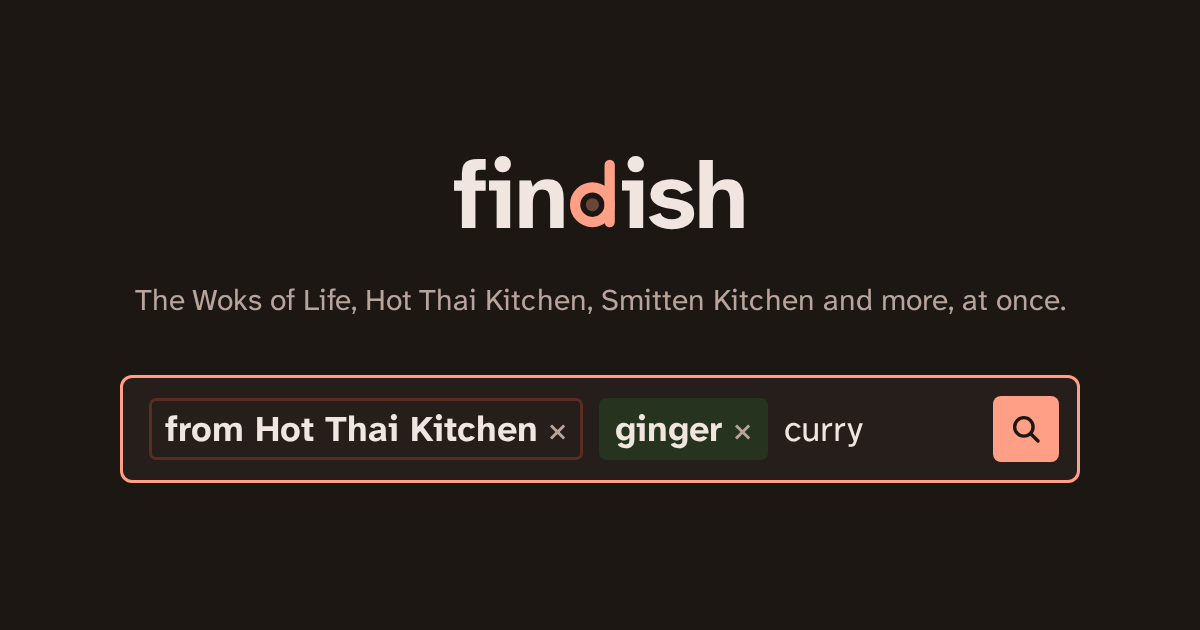
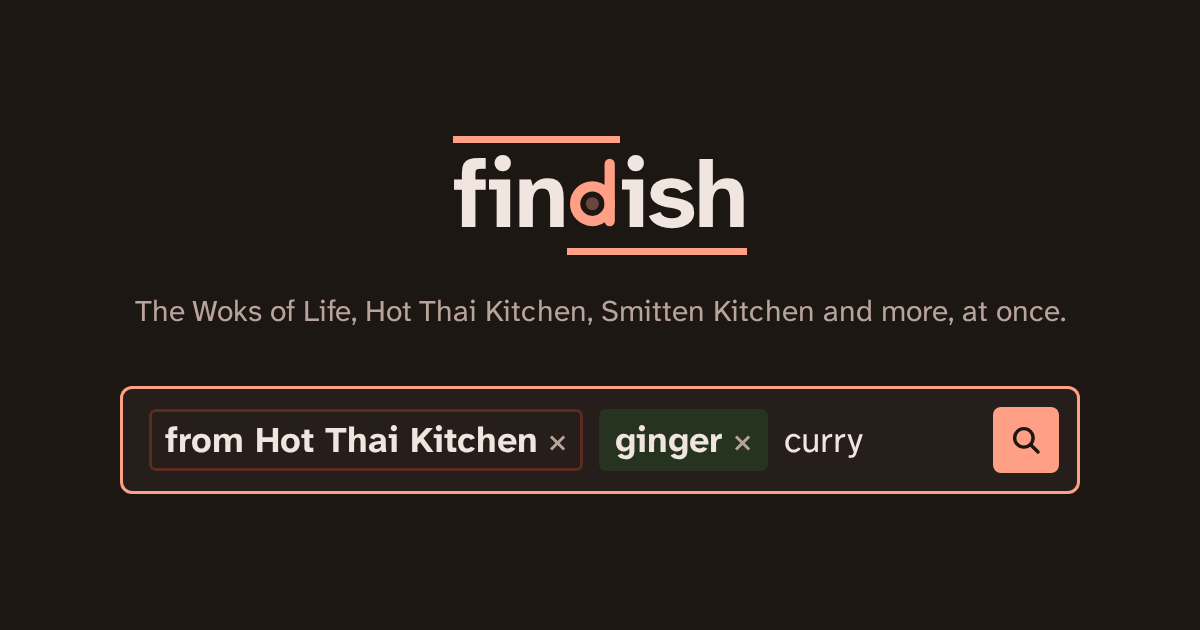
The wordmark marks the two words: a line over "find" and one under "dish"
Both lines run across the plate d, so "find" and "dish" each read with the d
shared between them. Keeps the heavier, evenly spaced d. The share card follows.

Claude-Session: https://claude.ai/code/session_015KDcQG7Phcc9ZQiyKCp2Nv

diff --git a/design/og.html b/design/og.html
@@ -8,7 +8,10 @@ html,body{margin:0}
 body{width:1200px;height:630px;background:#1d1714;color:#f1e6df;font-family:A;overflow:hidden;box-sizing:border-box;padding:64px 96px;display:flex;flex-direction:column;align-items:center;justify-content:center;text-align:center}
 .name{font-size:96px;font-weight:700;letter-spacing:-0.03em;line-height:1;margin:0}
 .name{display:inline-flex;align-items:stretch;letter-spacing:-0.02em}
-.d{display:flex;align-items:flex-end;padding:0 0.02em}
+.fin,.d,.ish{border-top:0.08em solid transparent;border-bottom:0.08em solid transparent;padding-top:0.04em;padding-bottom:0.06em}
+.fin,.d{border-top-color:#ff9f86}
+.d,.ish{border-bottom-color:#ff9f86}
+.d{display:flex;align-items:flex-end;padding-left:0.02em;padding-right:0.02em}
 .d svg{display:block;width:0.507em;height:0.74em;margin-bottom:0.15em;color:#ff9f86}
 .from{font-size:30px;color:#b8a49b;margin:36px 0 0}
 .box{margin-top:56px;width:960px;box-sizing:border-box;display:flex;align-items:center;gap:16px;padding:18px 18px 18px 26px;border:3px solid #ff9f86;border-radius:12px;background:#251e1a;font-size:36px;text-align:left}

diff --git a/AGENTS.md b/AGENTS.md
@@ -253,7 +253,7 @@ Findish (findish.now; called Recipe search until 2026-11-16, when it moved off k
 - Analytics go to Findish's own Amplitude project, "Findish" (910064), since 2026-11-16, only on findish.now. The key is in `src/lib/site.ts`; `scripts/popularity.mjs` reads the same project with the Actions secrets `AMPLITUDE_API_KEY` and `AMPLITUDE_SECRET_KEY`. Custom events no longer carry `experiment` (that's only for projects sharing kylepace.dev's). Events from before the move stay in the kylepace.dev project (902556) under `experiment: "recipe-search"`.
 - The crawler is FindishBot (renamed from RecipeSearchBot on 2026-11-16, Kyle's call; no indexed site's robots.txt named the old one). Its user agent links to findish.now/about/. `robotsForNames` in `crawler/lib/robots.mjs` applies the rules for every name it has gone by (`OLD_NAMES` in `crawler/crawl.mjs`): a path must be allowed for all of them and the longest Crawl-delay wins, so a block on the old name still holds. Keep old names in that list. Its look is its own: `src/styles/theme.css` overrides the tokens with "Tomato and basil" (Kyle's pick, 2026-11-16).
 - Photos load straight from each recipe's own site (Kyle's call, 2026-11-08), with no referrer and lazily. A photo five or more recipes share is a site's stand-in ("Photo to come"), so `build-index.mjs` drops it and those recipes show without one. Their hosts are in `.agents/allowed-hosts.txt`. A site that blocks it or asks us to stop gets text-only cards: set `crawl.photos: false` on it in KitchenCatalog's `recipe-sources/sources.json`, then `npm run sync-catalog`.
-- The wordmark ("fin", a plate-shaped d in tomato red, "ish"; on 2026-11-16 the d's strokes were made heavier to match the bold letters and its spacing evened out. Bars over "fin" and under "ish" were tried twice that day and came off: offset, they read as lopsided) is `src/components/Wordmark.astro`, used in the home page's name and in `src/components/SiteHead.astro`, the link home at the top of every other page. The plate d alone is the favicon, `public/favicon-v3.svg`, which every page passes to `LabLayout` as `favicon`; if it changes again, give it a new name. Don't put an `aria-label` on links around the wordmark: the visible letters read "finish", so a label like "Findish, back to the search" fails axe. See `design/PLAN.md`.
+- The wordmark ("fin", a plate-shaped d in tomato red, "ish", with a tomato line over "find" and another under "dish", both running across the d so the two words read; settled 2026-11-16 after a few rounds that day, with the d's strokes made heavier to match the bold letters and its spacing evened out. Every part carries the same top and bottom border, transparent where no line shows, so the letters stay on one baseline) is `src/components/Wordmark.astro`, used in the home page's name and in `src/components/SiteHead.astro`, the link home at the top of every other page. The plate d alone is the favicon, `public/favicon-v3.svg`, which every page passes to `LabLayout` as `favicon`; if it changes again, give it a new name. Don't put an `aria-label` on links around the wordmark: the visible letters read "finish", so a label like "Findish, back to the search" fails axe. See `design/PLAN.md`.
 - The share cards are `design/og.html`, `og-about.html`, `og-assistants.html` and `og-privacy.html`, rendered to the matching PNGs in `public/`.
 - Run `npm run build` before pushing; it must pass.
 

diff --git a/design/PLAN.md b/design/PLAN.md
@@ -19,7 +19,7 @@ The other two directions considered: a cookbook-index list (one column, time on 
 
 ## The wordmark (November 16, 2026)
 
-Findish is "fin", a plate-shaped d in tomato red, "ish", in Atkinson bold. The d (a plate seen from above, with its stem) is where find and dish meet. Kyle picked the plate d on November 16 from mocks that combined two earlier ideas, bars over and under the name and the plate d; it replaced the curve under "dish", and he had the bars taken off the same day because they boxed the name in. That night the d got heavier strokes (11 units, matching the bold letters) and lost the extra room on its right so the gaps either side of it are even. Short lines over "fin" and under "ish" were tried again and came off: one top left and one bottom right reads as a diagonal, lopsided however short. It's text and one small inline SVG for the d (`src/components/Wordmark.astro`), so it scales and follows light and dark; screen readers hear "Findish" from hidden text and skip the drawing. It's the big name on the home page, the small link home in results, and a link home at the top of every other page (`src/components/SiteHead.astro`, since there's no top bar). The plate d on its own is the favicon (`public/favicon-v3.svg`, tomato since November 16, renamed so search engines refetch it; every page passes it to `LabLayout`), and the home share card (`design/og.html`) uses the full mark.
+Findish is "fin", a plate-shaped d in tomato red, "ish", in Atkinson bold. The d (a plate seen from above, with its stem) is where find and dish meet. Kyle picked the plate d on November 16 from mocks that combined two earlier ideas, bars over and under the name and the plate d; it replaced the curve under "dish", and he had the bars taken off the same day because they boxed the name in. That night the d got heavier strokes (11 units, matching the bold letters) and lost the extra room on its right so the gaps either side of it are even. Lines over "fin" and under "ish" alone read as a diagonal, so Kyle settled on lines that cross the d: one over "find", one under "dish", highlighting both words with the d shared between them. It's text and one small inline SVG for the d (`src/components/Wordmark.astro`), so it scales and follows light and dark; screen readers hear "Findish" from hidden text and skip the drawing. It's the big name on the home page, the small link home in results, and a link home at the top of every other page (`src/components/SiteHead.astro`, since there's no top bar). The plate d on its own is the favicon (`public/favicon-v3.svg`, tomato since November 16, renamed so search engines refetch it; every page passes it to `LabLayout`), and the home share card (`design/og.html`) uses the full mark.
 
 ## The subject
 
